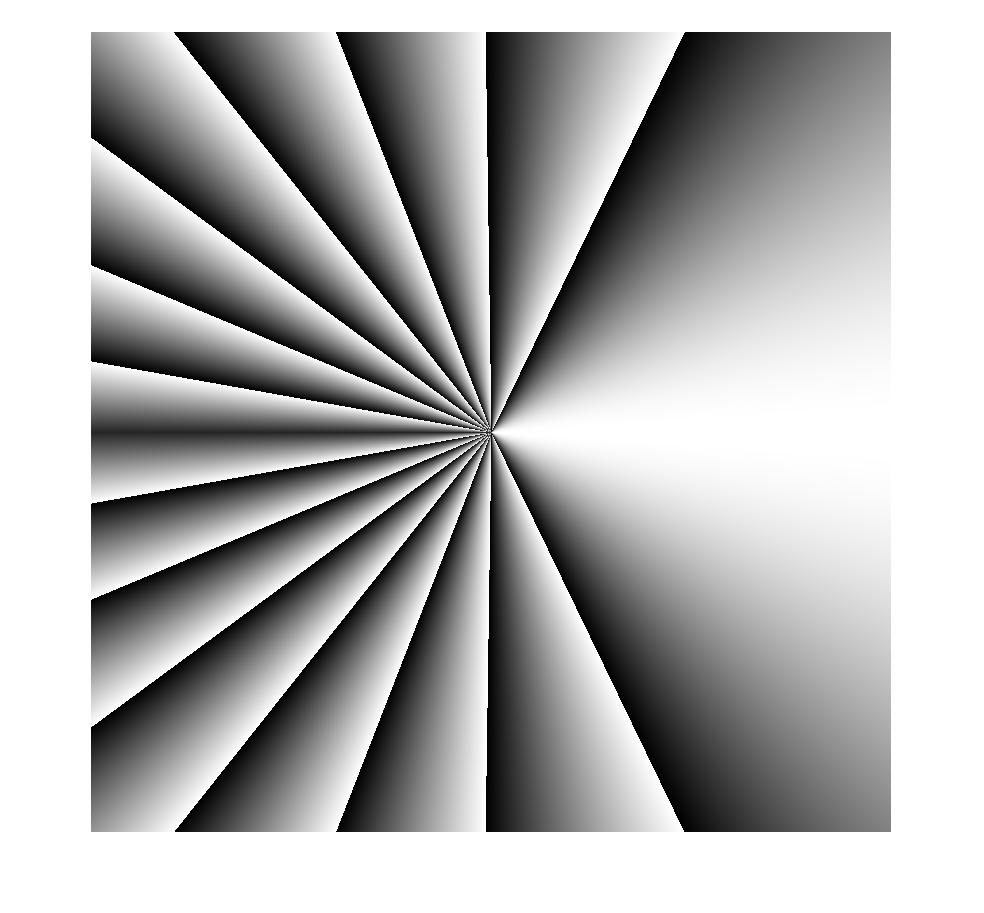
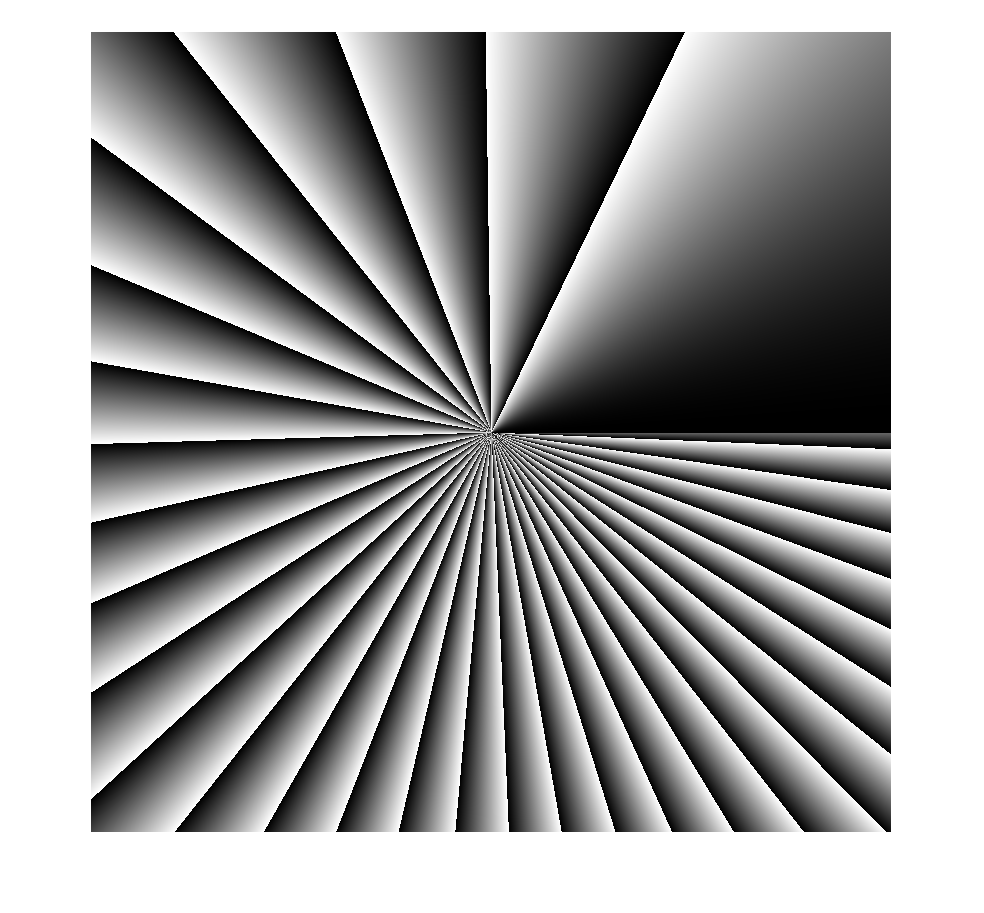
10-07-2019

diff --git a/src/init.m b/src/init.m
@@ -1,6 +1,6 @@
 r = 5; % define width of the split interval 
 n = 800; % size of image
-pow_fi = 1; % power of fi in exp(i*tp*fi)
+pow_fi = 2; % power of fi in exp(i*tp*fi)
 tp = 5; % topological charge (for independent topological charge)
 % ----------------------------------------------------------
 vortex = vortex_filter(r, n, pow_fi);

diff --git a/src/vortex_filter.m b/src/vortex_filter.m
@@ -16,7 +16,11 @@ for j=1:size(y,2)
     else 
     q = 1;
     end
-    vortex(j,k) = exp(-1i*tp_input(q)*atan2(-y(j),x(k)).^pow_fi);
+    angle = atan2(-y(j),x(k));
+    if angle < 0
+        angle = angle + 2*pi;
+    end
+    vortex(j,k) = exp(1i*tp_input(q)*angle.^pow_fi);
     end
 end
 end

diff --git a/src/dependent_top_charge.m b/src/dependent_top_charge.m
@@ -1,5 +1,5 @@
 function tp = dependent_top_charge(y,x)
 r = sqrt(y.^2 + x.^2);
-tp = r.^2;
+tp = r.^3;
 end
 
